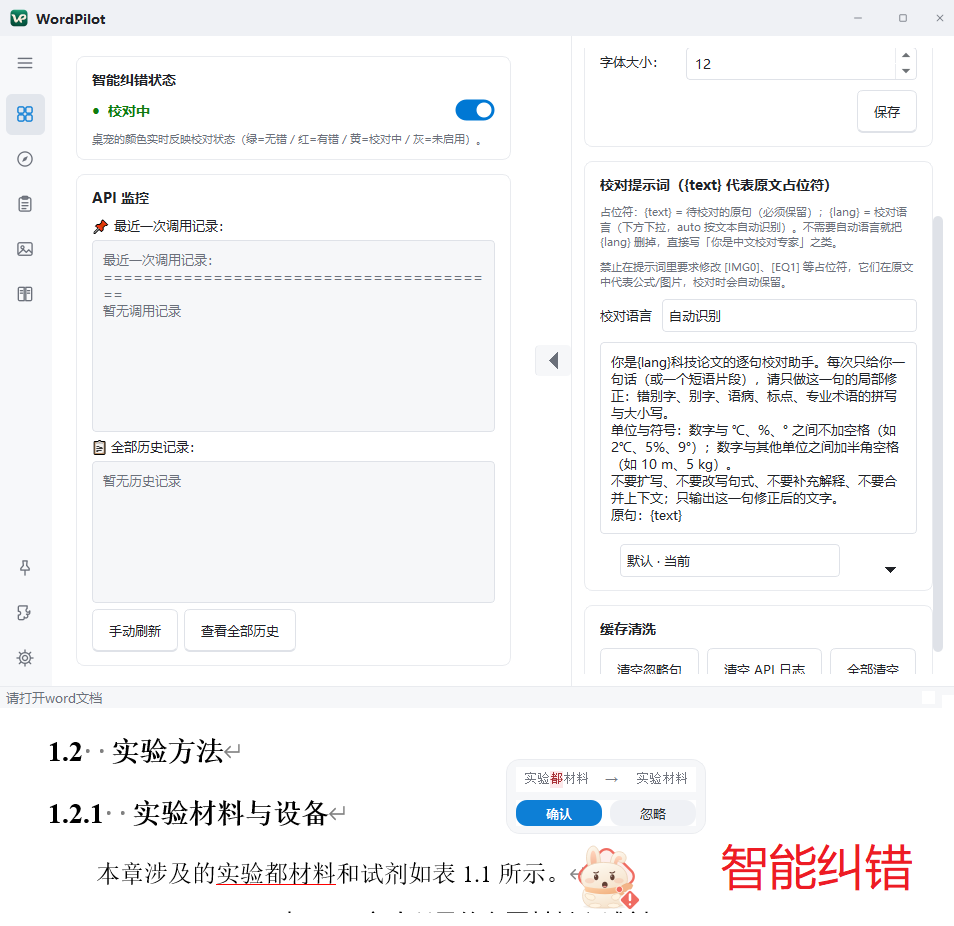
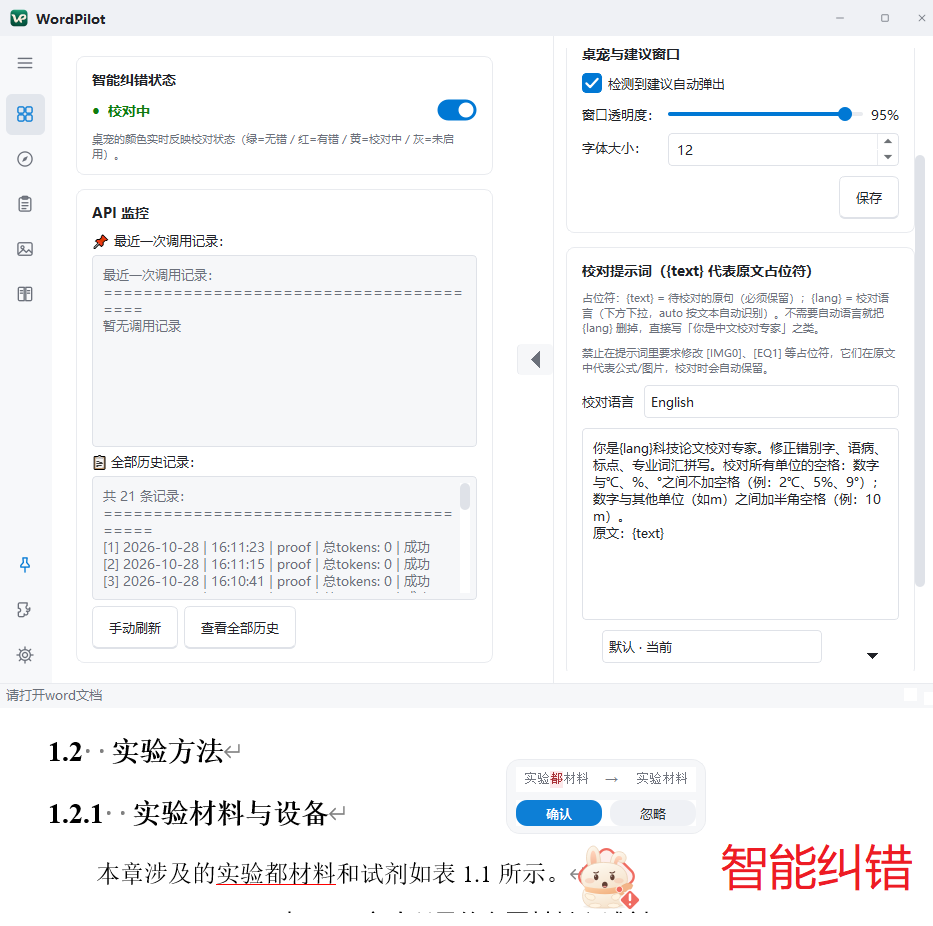
docs(release): 换用真实仓库地址 + 记录安全软件目录级拦截的排查结论
用户现场（2026-10-28）：双击 dist 下的 exe 必弹「Windows 已保护你的电脑」，
点「仍要运行」第二次依然弹；退出腾讯电脑管家的界面后仍然弹。

逐项对照（每次只改一个变量）得出：
- 同一 exe 放 D:\\Python\\Project\\SmartProof\\dist\\ → 弹；复制到 D:\\Python\\Project\\ → 不弹
  ⇒ 判定随**目录**走，不随文件走；
- 最小对照程序（2 MB，无网络/无 COM）复制进 dist\\ → 同样弹 ⇒ 不是本程序代码触发；
- 关掉 UPX 重新打包 → 同样弹 ⇒ 与加壳无关（exe 未被 UPX 压缩，仅包内 DLL/PYD 被压缩）；
- 本机安全产品是腾讯电脑管家（QQPCRTP 实时防护），Windows Defender 已停用
  ⇒ 拦截方是第三方安全软件，不是 Windows 签名链。

文档更新：
- README 全部链接改为 github.com/hui-xu-ai/WordPilot；
- docs/RELEASE.md 新增「3.1 分发环境注意」：打包输出放仓库树之外并加入信任区、
  不要把 dist/ 当长期分发目录、未签名首次运行的处理方式与长期签名方案；
  发布要点补一条「装第三方安全软件时建议信任程序目录」；
- 提交用户替换的新截图 docs/images/proofread.png。

diff --git a/docs/RELEASE.md b/docs/RELEASE.md
@@ -63,17 +63,34 @@ git tag -a v3.2.0 -m "WordPilot v3.2.0"
 
 ```powershell
 # 在 GitHub 建空仓库（不要勾选 README/LICENSE，避免与本地历史冲突）
-git remote add origin https://github.com/<你的账号>/WordPilot.git
+git remote add origin https://github.com/hui-xu-ai/WordPilot.git
 git push -u origin main
 git push origin --tags
 ```
 
-README 里的徽章与链接占位 `OWNER` 需替换为真实账号/组织名：
+README 里的徽章与链接已指向 `hui-xu-ai/WordPilot`；换账号时全仓替换 `hui-xu-ai` 即可。
 
-```powershell
-(Get-Content README.md -Raw -Encoding utf8) -replace 'OWNER', '<你的账号>' |
-  Set-Content README.md -Encoding utf8 -NoNewline
-```
+## 3.1 分发环境注意（2026-10-28 实测排查）
+
+**结论：未签名 exe 被拦，与程序行为无关；换目录 / 换 UPX / 换代码都无效，属于“安全软件的目录级判定”。**
+
+排查对照（每次只改一个变量）：
+
+| 变量 | 结果 | 推论 |
+|---|---|---|
+| 同一份程序放在 `D:\Python\Project\SmartProof\dist\` | 双击报警 | 该目录树被安全软件标记 |
+| 同一份程序复制到 `D:\Python\Project\` | 不报警 | 判定随**目录**走，不随文件走 |
+| 最小对照程序（2 MB、无网络/无 COM）复制进 `dist\` | 同样报警 | **不是本程序代码触发** |
+| 关掉 UPX 重新打包 | 同样报警 | 与加壳无关（exe 本身未 UPX 压缩，仅包内 68 个 DLL/PYD 被压缩） |
+| 复制到桌面 | 同样报警 | 与工作目录无关，是安全产品策略 |
+| 本机安全产品 | **腾讯电脑管家（QQPCRTP 实时防护）**，Windows Defender 已停用 | 拦截方是第三方安全软件，不是 SmartScreen 签名链 |
+
+因此发版约定：
+
+1. **打包输出放到仓库树之外**（当前用 `D:\Python\Project\WordPilot-release\`），并把它加入安全软件的**信任区**；
+2. 不要把 `dist/` 当成长期分发目录 —— 反复打包会产生大量未签名新 exe，容易被安全软件标记整棵目录；
+3. 未签名程序首次运行若出现「Windows 已保护你的电脑 / 无法识别的应用」，点「更多信息 → 仍要运行」；发布页附带 SHA256 供校验；
+4. 长期方案：代码签名（Authenticode / 微软 Trusted Signing），签完双击不再提示。
 
 ## 4. 发布 Release
 
@@ -86,8 +103,9 @@ README 里的徽章与链接占位 `OWNER` 需替换为真实账号/组织名：
 - 面向中文毕业论文/科技论文的 Word 辅助工具，Windows + 本机 Microsoft Word；
 - 需要自己的 API Key（设置 → API，支持任何 OpenAI 兼容端点，默认 DeepSeek）；
 - 数据全部留在本机 `config/`，只有待处理文本外发；详见 `docs/PRIVACY.md`；
-- 未做代码签名，SmartScreen 可能提示「仍要运行」；
-- 解压到可写目录运行（软件要在同级目录写 `config/`），不要放 `C:\Program Files`。
+- 未做代码签名，首次运行 SmartScreen 可能提示「更多信息 → 仍要运行」；
+- 解压到可写目录运行（软件要在同级目录写 `config/`），不要放 `C:\Program Files`；
+- 若装了第三方安全软件，建议把程序所在目录加入其信任区（实测未签名 exe 易被目录级拦截）。
 
 ## 5. 回滚
 

diff --git a/README.md b/README.md
@@ -1,6 +1,6 @@
 # WordPilot
 
-[![CI](https://github.com/OWNER/WordPilot/actions/workflows/ci.yml/badge.svg)](https://github.com/OWNER/WordPilot/actions/workflows/ci.yml)
+[![CI](https://github.com/hui-xu-ai/WordPilot/actions/workflows/ci.yml/badge.svg)](https://github.com/hui-xu-ai/WordPilot/actions/workflows/ci.yml)
 [![Python](https://img.shields.io/badge/Python-3.14-3776AB?logo=python&logoColor=white)](https://www.python.org/)
 [![PySide6](https://img.shields.io/badge/PySide6-6.11-41CD52?logo=qt&logoColor=white)](https://doc.qt.io/qtforpython/)
 [![Platform](https://img.shields.io/badge/Platform-Windows%2010%2F11-0078D4?logo=windows&logoColor=white)](#系统要求)
@@ -67,7 +67,7 @@
 
 ### 方式一：下载发布包（推荐）
 
-1. 到 [Releases](https://github.com/OWNER/WordPilot/releases) 下载最新 `WordPilot-vX.Y.Z-win64.zip`；
+1. 到 [Releases](https://github.com/hui-xu-ai/WordPilot/releases) 下载最新 `WordPilot-vX.Y.Z-win64.zip`；
 2. 解压到**任意可写目录**（不要放在 `C:\Program Files` 下，软件需要在该目录写 `config/`）；
 3. 双击 `WordPilot.exe`，首次运行会在同级目录生成 `config/`；
 4. 打开设置 → API，填入你的 API Key。
@@ -75,7 +75,7 @@
 ### 方式二：从源码运行
 
 ```powershell
-git clone https://github.com/OWNER/WordPilot.git
+git clone https://github.com/hui-xu-ai/WordPilot.git
 cd WordPilot
 python -m venv .venv
 .venv\Scripts\activate

diff --git a/docs/wiki/INDEX.md b/docs/wiki/INDEX.md
@@ -4,9 +4,9 @@
 
 ## .
 - [WordPilot 工作区（pydev 预设）](AGENTS.md) — 2603 B
-- [Changelog](CHANGELOG.md) — 3525 B
+- [Changelog](CHANGELOG.md) — 3741 B
 - [贡献指南（Contributing）](CONTRIBUTING.md) — 3387 B
-- [WordPilot](README.md) — 8886 B
+- [WordPilot](README.md) — 9686 B
 - [安全策略（Security Policy）](SECURITY.md) — 2031 B
 
 ## docs
@@ -16,7 +16,7 @@
 - [桌宠皮肤与状态](docs/PET_SKINS.md) — 2111 B
 - [插件开发指南 · PLUGIN GUIDE](docs/PLUGIN_GUIDE.md) — 11615 B
 - [隐私与数据安全 · PRIVACY](docs/PRIVACY.md) — 4119 B
-- [发布说明 · RELEASE](docs/RELEASE.md) — 5695 B
+- [发布说明 · RELEASE](docs/RELEASE.md) — 7337 B
 - [路线图 · ROADMAP](docs/ROADMAP.md) — 4479 B
 - [ADR-001 采用 pydev 项目布局与记忆分离](docs/adr/001-onboarding-layout.md) — 1964 B
 - [ADR-002 插件次要界面：全局右侧可折叠抽屉](docs/adr/002-side-panel.md) — 4695 B
